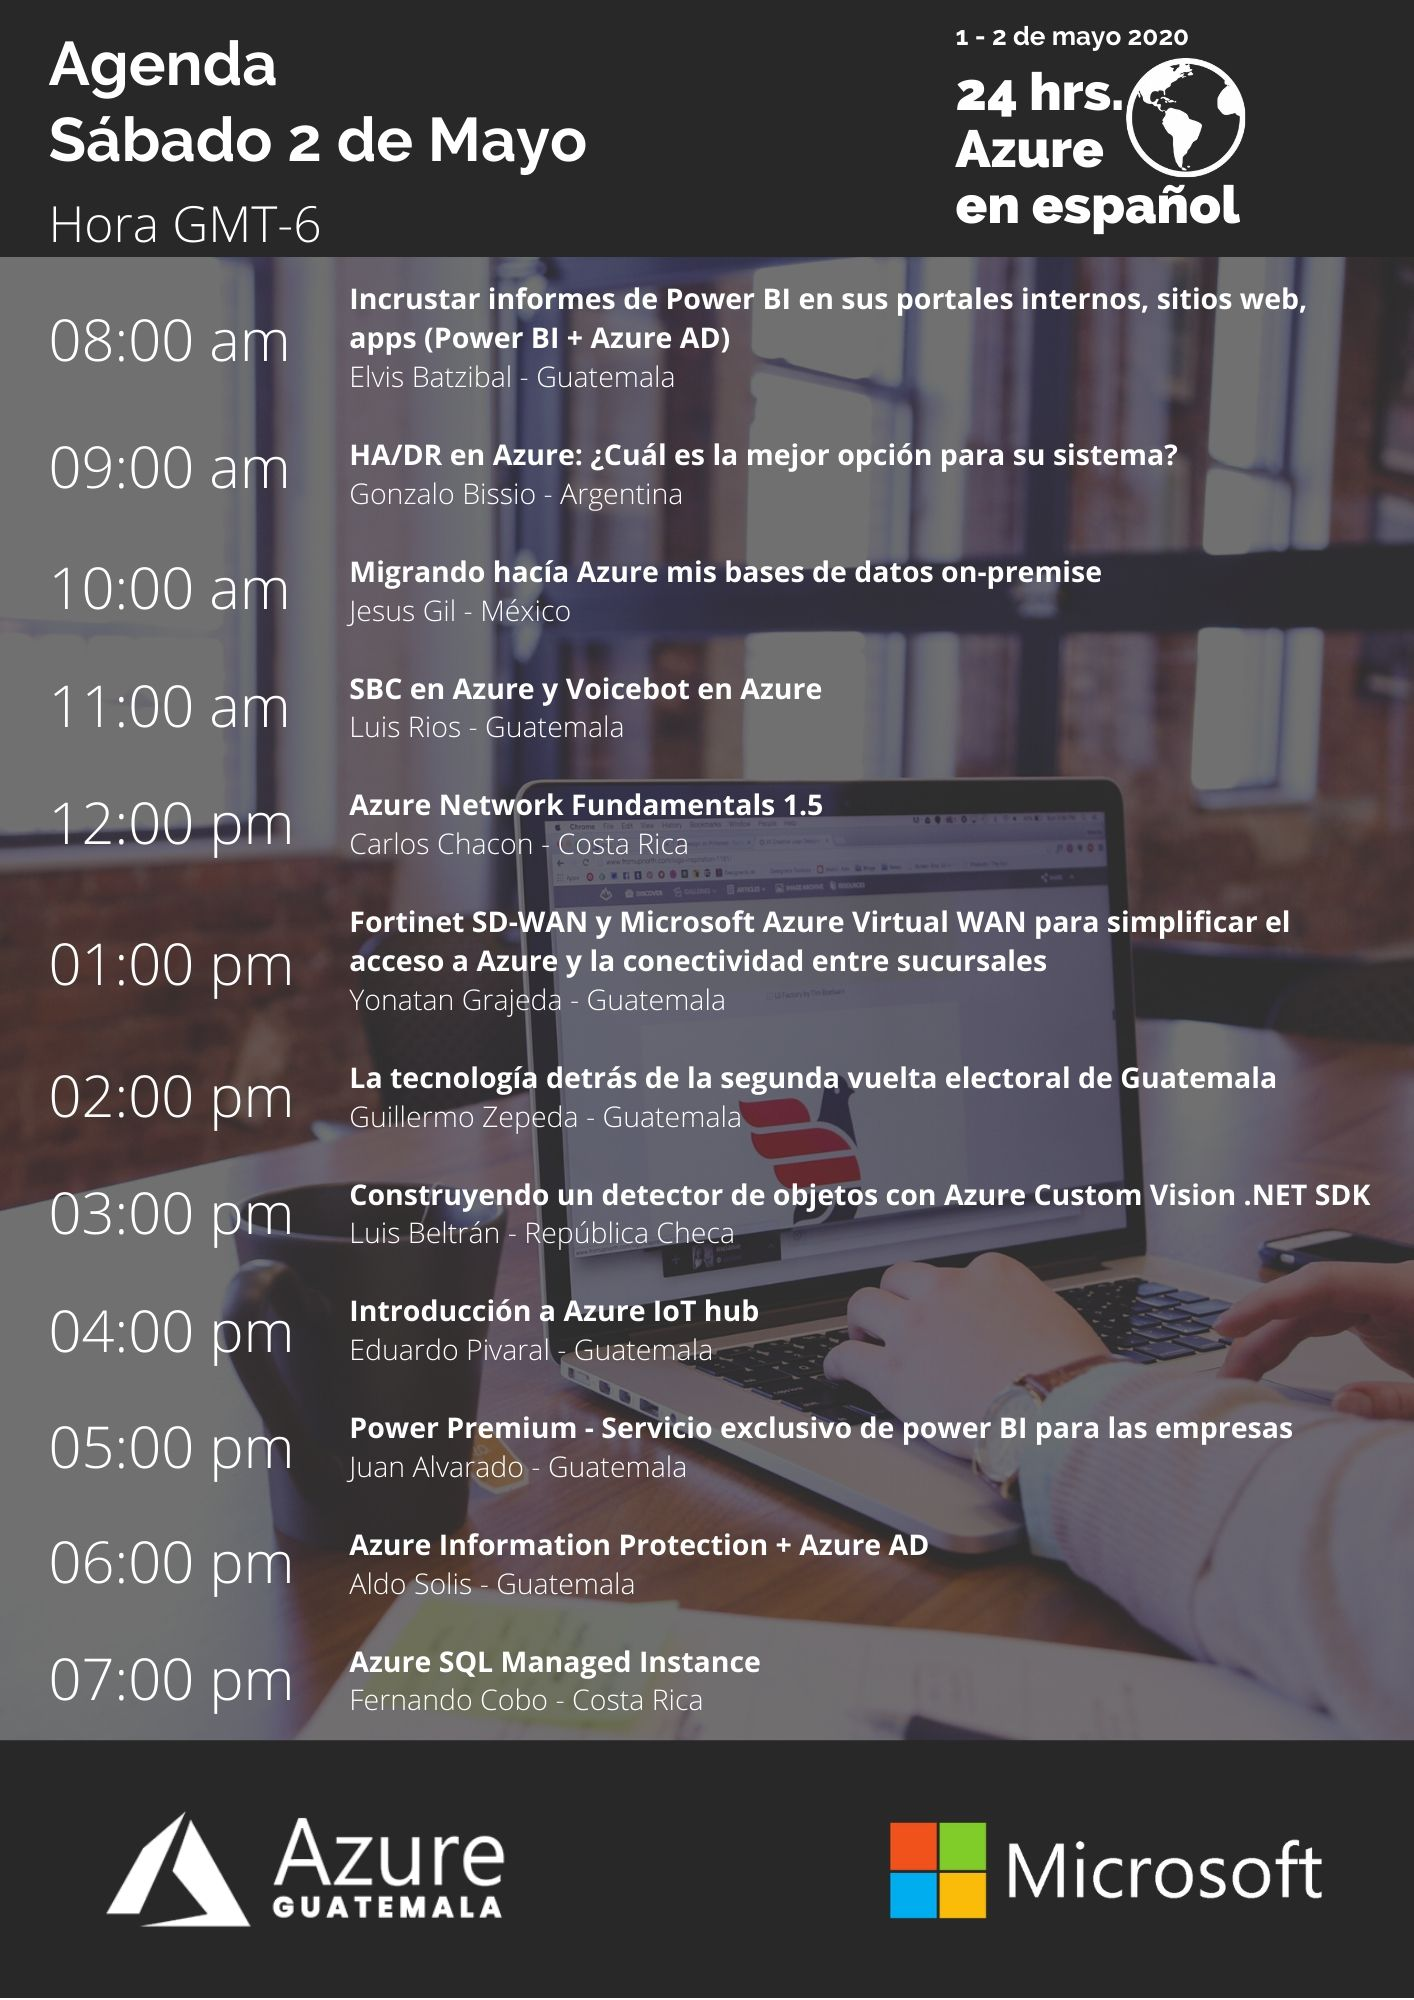
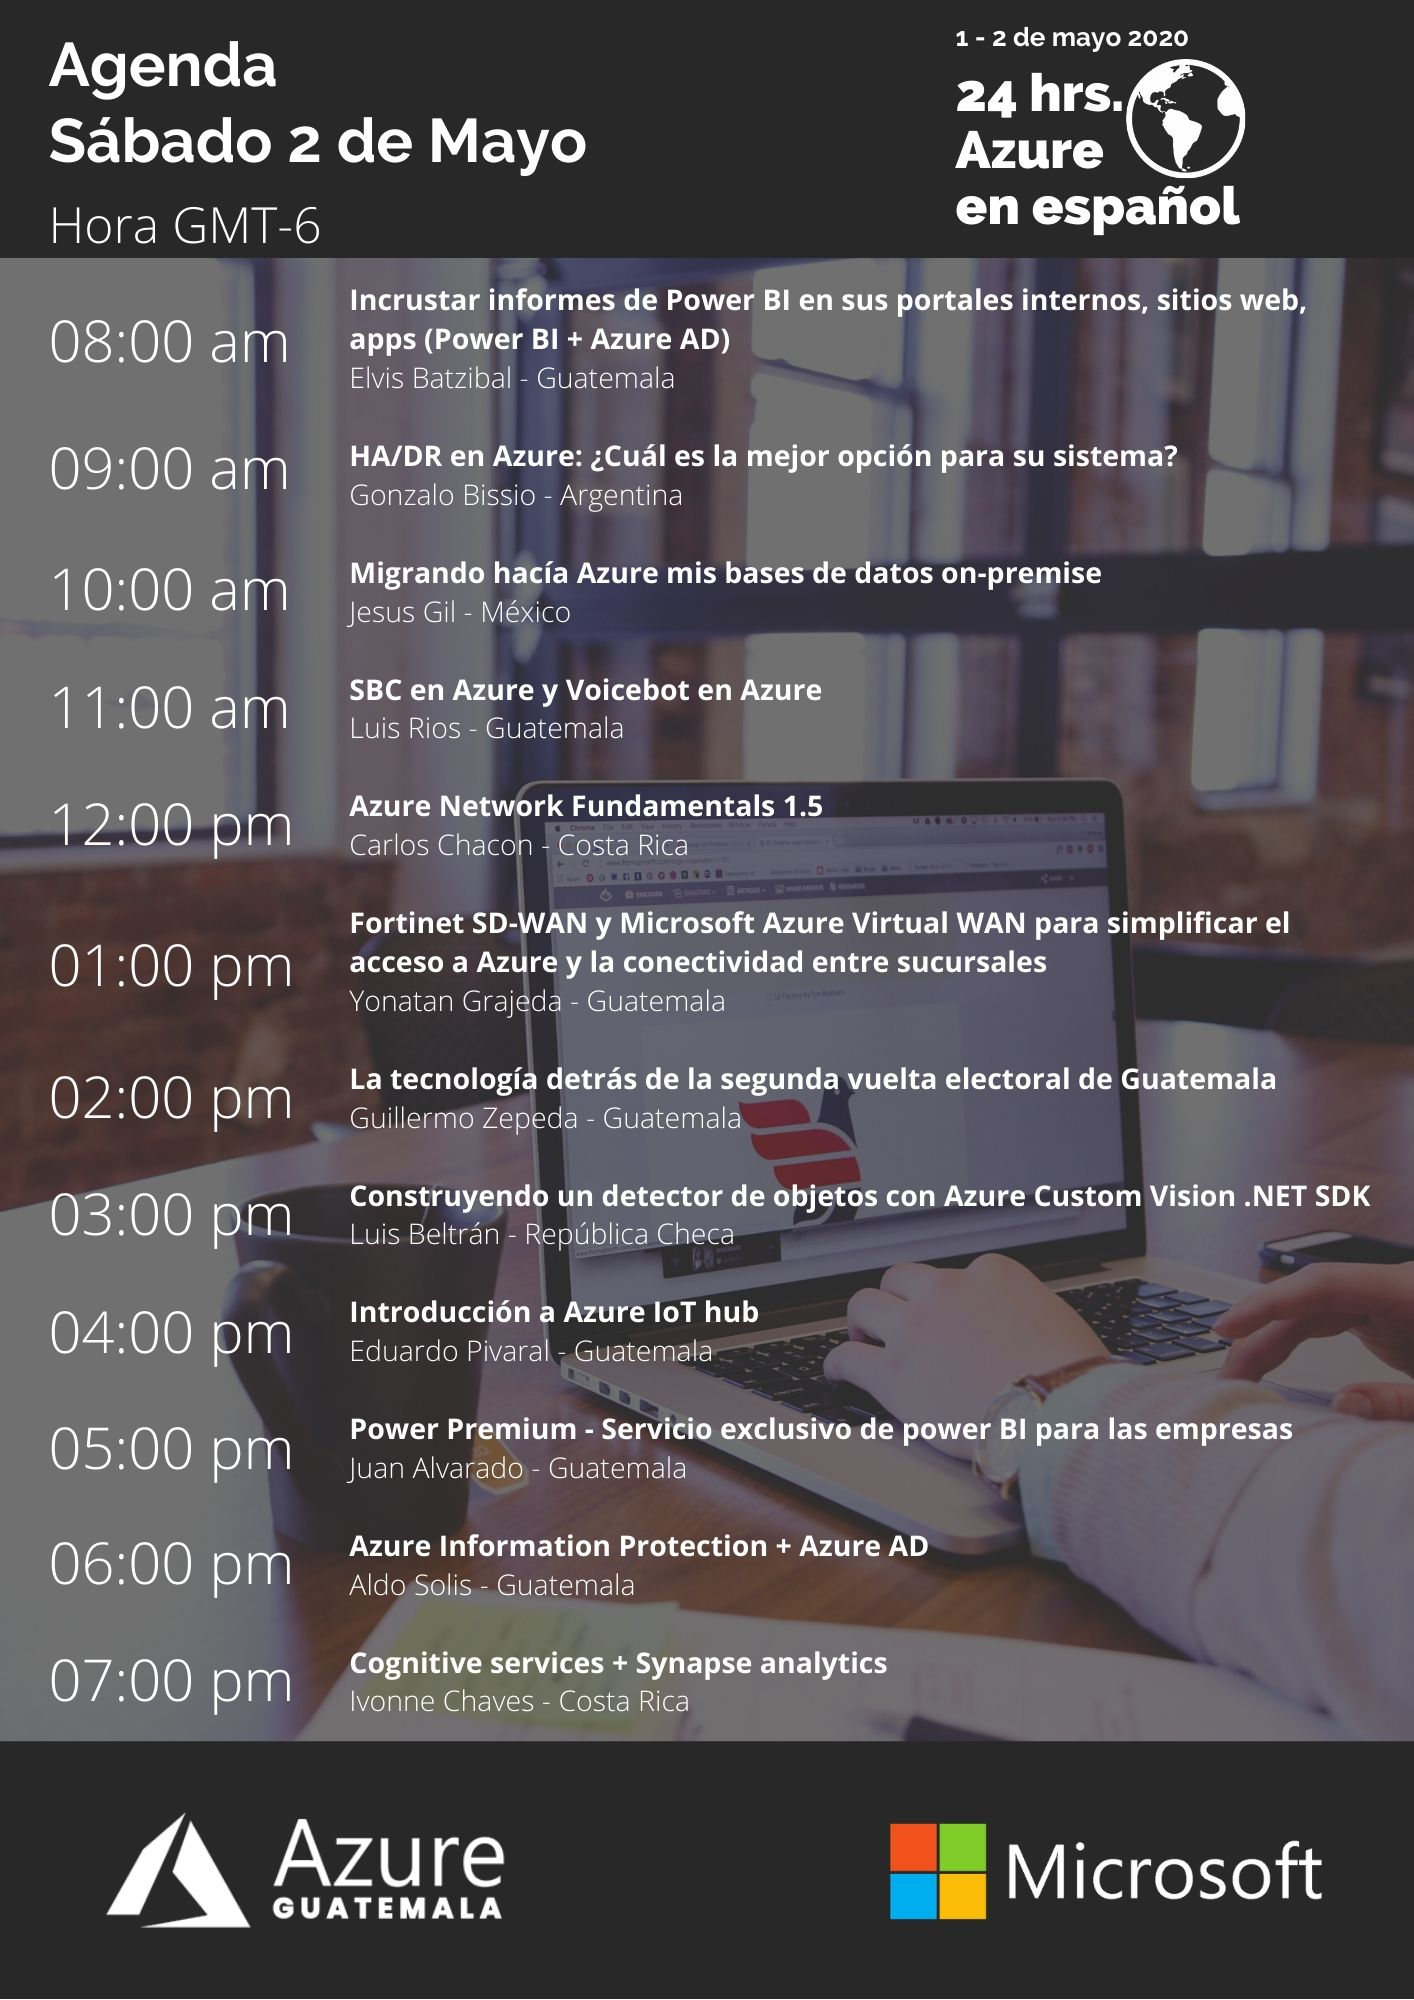
update agenda

diff --git a/EnlacesSabado.md b/EnlacesSabado.md
@@ -14,6 +14,6 @@ Hora | Charla |
 04:00 p. m. |	[Introduccion a Azure IoT hub](https://bit.ly/3bNg8yu)
 05:00 p. m. |	[Power Premium - Servicio exclusivo de power BI para las empresas](https://bit.ly/3bLhGt3)
 06:00 p. m. |	[Azure Information Protection + Azure AD ](https://bit.ly/3eXLwwh)
-07:00 p. m. |	[Azure SQL Managed Instance](https://bit.ly/3aOzKku)
+07:00 p. m. |	[Cognitive services + Synapse analytics](https://bit.ly/3aOzKku)
 
 [Enlaces de sesiones del viernes](EnlacesViernes.md)
